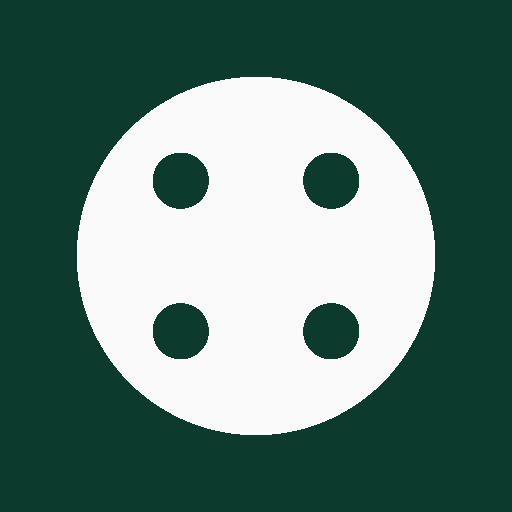
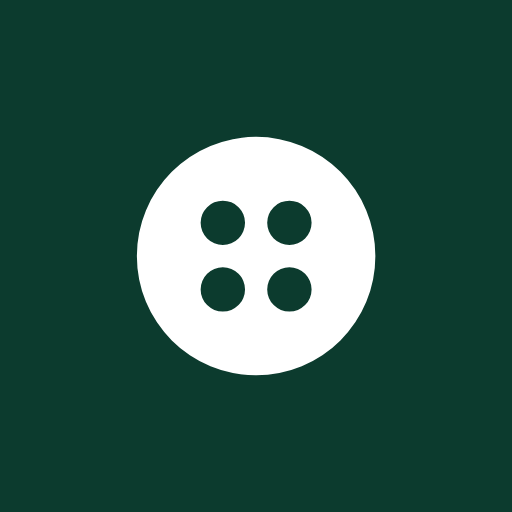
Remplir le bouton de la marque, et le passer au vert
La marque etait un anneau dont les quatre points portaient la meme
couleur que lui. Elle devient un bouton plein, dont les trous sont
evides plutot que peints.

Un seul trace, et la regle evenodd creuse les cercles interieurs : le
fond passe au travers. C'est ce qui permet de n'en tenir qu'une version.
Sur fond clair, en vert, elle donne un bouton vert a trous blancs ; sur
les panneaux foret, en blanc, un bouton blanc a trous verts. Des trous
peints en blanc auraient donne la-bas un bouton blanc tache de blanc.

Six des huit emplacements passent au vert d'accent. La ou la classe de
couleur habillait aussi le mot « TailorHub », la marque est isolee dans
son propre element : un mot de marque en vert a cote d'un bouton vert
perdrait le contraste qui fait lire l'un et regarder l'autre.

Les icones de l'application installee sont regenerees depuis ce meme
trace. Les precedentes avaient des trous plus petits : la marque n'etait
deja pas la meme sur l'ecran d'accueil d'un telephone et dans
l'interface.

Deux trouvailles en passant.

Les fichiers de public/logo/ contenaient un buste de couture, reste
d'une direction abandonnee avant que le bouton ne soit retenu. Ils ne
servaient nulle part, mais un fichier qui contredit la marque est un
piege pour la prochaine personne qui l'ouvre.

Et le favicon etait encore celui du gabarit Vercel - un cercle noir a
triangle blanc. Chaque onglet de navigateur affichait donc le logo de
Vercel depuis le premier jour.
[…]

Changed region(s): [[0.125, 0.125, 0.875, 0.875]]

diff --git a/src/app/marque.tsx b/src/app/marque.tsx
@@ -2,8 +2,19 @@
  * Marque TailorHub : un bouton de couture.
  *
  * C'est la seule des pistes dessinees qui restait lisible a 20 px, taille a
- * laquelle un logo passe l'essentiel de sa vie. Elle herite de la couleur
- * courante, ce qui la rend utilisable sur clair comme sur sombre.
+ * laquelle un logo passe l'essentiel de sa vie.
+ *
+ * Le bouton est plein, et ses quatre trous sont *evides* plutot que peints
+ * en blanc : un seul trace, et la regle evenodd creuse les cercles
+ * interieurs. Le fond passe donc au travers.
+ *
+ * C'est ce qui permet de n'avoir qu'une seule marque. Sur fond clair, en
+ * vert, elle donne un bouton vert a trous blancs ; sur les panneaux foret,
+ * en blanc, un bouton blanc a trous verts. Des trous peints en blanc
+ * auraient donne la-bas un bouton blanc tache de blanc, illisible.
+ *
+ * Elle herite de la couleur courante : c'est l'ecran qui decide, selon le
+ * fond sur lequel il la pose.
  */
 export function Marque({ taille = 32 }: { taille?: number }) {
   return (
@@ -14,11 +25,12 @@ export function Marque({ taille = 32 }: { taille?: number }) {
       fill="none"
       aria-hidden="true"
     >
-      <circle cx="24" cy="24" r="19" stroke="currentColor" strokeWidth="3.5" />
-      <circle cx="18" cy="18" r="3.2" fill="currentColor" />
-      <circle cx="30" cy="18" r="3.2" fill="currentColor" />
-      <circle cx="18" cy="30" r="3.2" fill="currentColor" />
-      <circle cx="30" cy="30" r="3.2" fill="currentColor" />
+      <path
+        fill="currentColor"
+        fillRule="evenodd"
+        clipRule="evenodd"
+        d="M24 2.5a21.5 21.5 0 100 43 21.5 21.5 0 000-43zM18 14a4 4 0 100 8 4 4 0 000-8zM30 14a4 4 0 100 8 4 4 0 000-8zM18 26a4 4 0 100 8 4 4 0 000-8zM30 26a4 4 0 100 8 4 4 0 000-8z"
+      />
     </svg>
   );
 }

diff --git a/src/app/page.tsx b/src/app/page.tsx
@@ -208,7 +208,9 @@ function Navigation() {
           href="/"
           className="flex shrink-0 items-center gap-2 rounded-controle text-encre sm:gap-2.5"
         >
-          <Marque taille={26} />
+          <span className="text-vert">
+            <Marque taille={26} />
+          </span>
           <span className="text-base font-semibold tracking-tight sm:text-lg">
             TailorHub
           </span>
@@ -328,7 +330,7 @@ function ApercuTelephone() {
       className="w-[17.5rem] max-w-full overflow-hidden rounded-[1.5rem] bg-papier text-encre"
     >
       <div className="flex items-center justify-between border-b border-bordure bg-white px-3.5 py-2.5">
-        <span className="flex items-center gap-2 text-foret">
+        <span className="flex items-center gap-2 text-vert">
           <Marque taille={20} />
           <span className="text-[0.8125rem] font-semibold text-encre">
             Atelier Sossou
@@ -959,7 +961,9 @@ function PiedDePage() {
     <footer className="bg-white px-4 py-11 sm:px-5">
       <div className="mx-auto flex max-w-6xl flex-col items-center justify-between gap-3 text-center text-sm text-gris sm:flex-row sm:text-left">
         <span className="flex items-center gap-2.5 font-semibold text-encre">
-          <Marque taille={20} />
+          <span className="text-vert">
+            <Marque taille={20} />
+          </span>
           TailorHub
         </span>
         <p>Conçu pour les ateliers de couture.</p>

diff --git a/src/app/avis/[jeton]/page.tsx b/src/app/avis/[jeton]/page.tsx
@@ -51,8 +51,10 @@ export default async function PageAvis({
   return (
     <main className="flex min-h-dvh flex-col items-center justify-center bg-papier px-4 py-10">
       <div className="w-full max-w-md">
-        <span className="mx-auto flex w-fit items-center gap-2 text-foret">
-          <Marque taille={26} />
+        <span className="mx-auto flex w-fit items-center gap-2 text-encre">
+          <span className="text-vert">
+            <Marque taille={26} />
+          </span>
           <span className="text-lg font-semibold tracking-tight">TailorHub</span>
         </span>
 

diff --git a/src/app/admin/layout.tsx b/src/app/admin/layout.tsx
@@ -41,7 +41,7 @@ export default async function AdminLayout({
       <header className="border-b border-bordure bg-white">
         <div className="mx-auto flex max-w-5xl flex-wrap items-center justify-between gap-3 px-4 py-3 sm:px-6">
           <span className="flex items-center gap-2.5">
-            <span className="text-foret">
+            <span className="text-vert">
               <Marque taille={24} />
             </span>
             <span className="text-base font-semibold tracking-tight text-encre">

diff --git a/src/app/(app)/layout.tsx b/src/app/(app)/layout.tsx
@@ -97,7 +97,7 @@ export default async function AppLayout({
             href="/reglages"
             className="-m-1.5 flex min-w-0 items-center gap-2.5 rounded-controle p-1.5 active:bg-papier"
           >
-            <span className="shrink-0 text-foret">
+            <span className="shrink-0 text-vert">
               <Marque taille={26} />
             </span>
             <span className="min-w-0">
